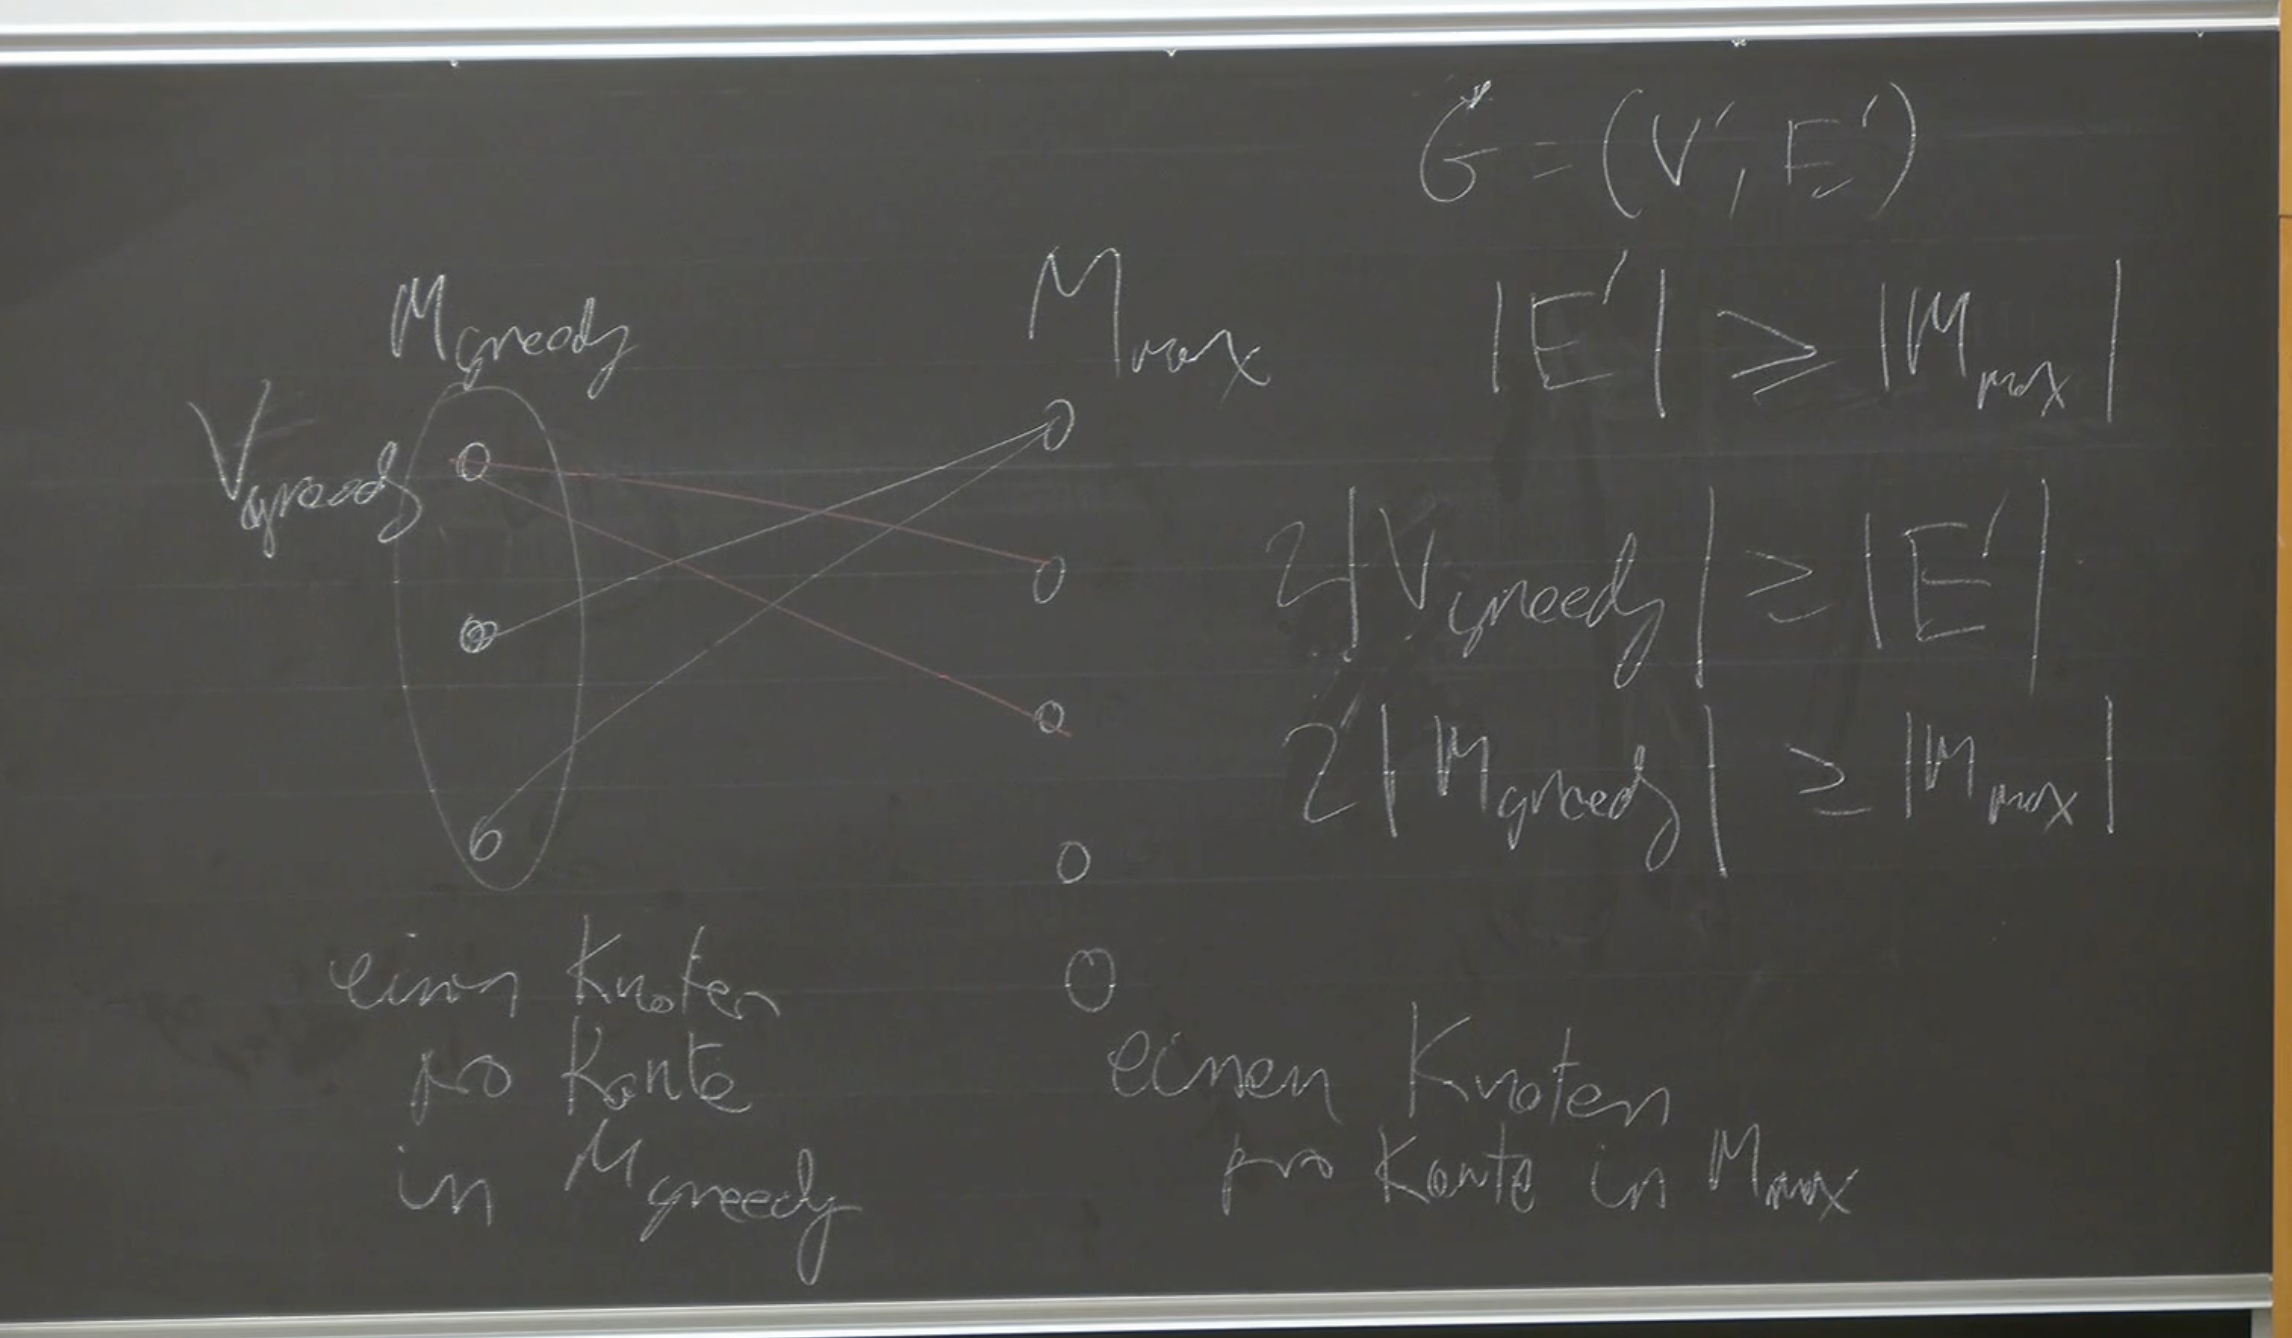
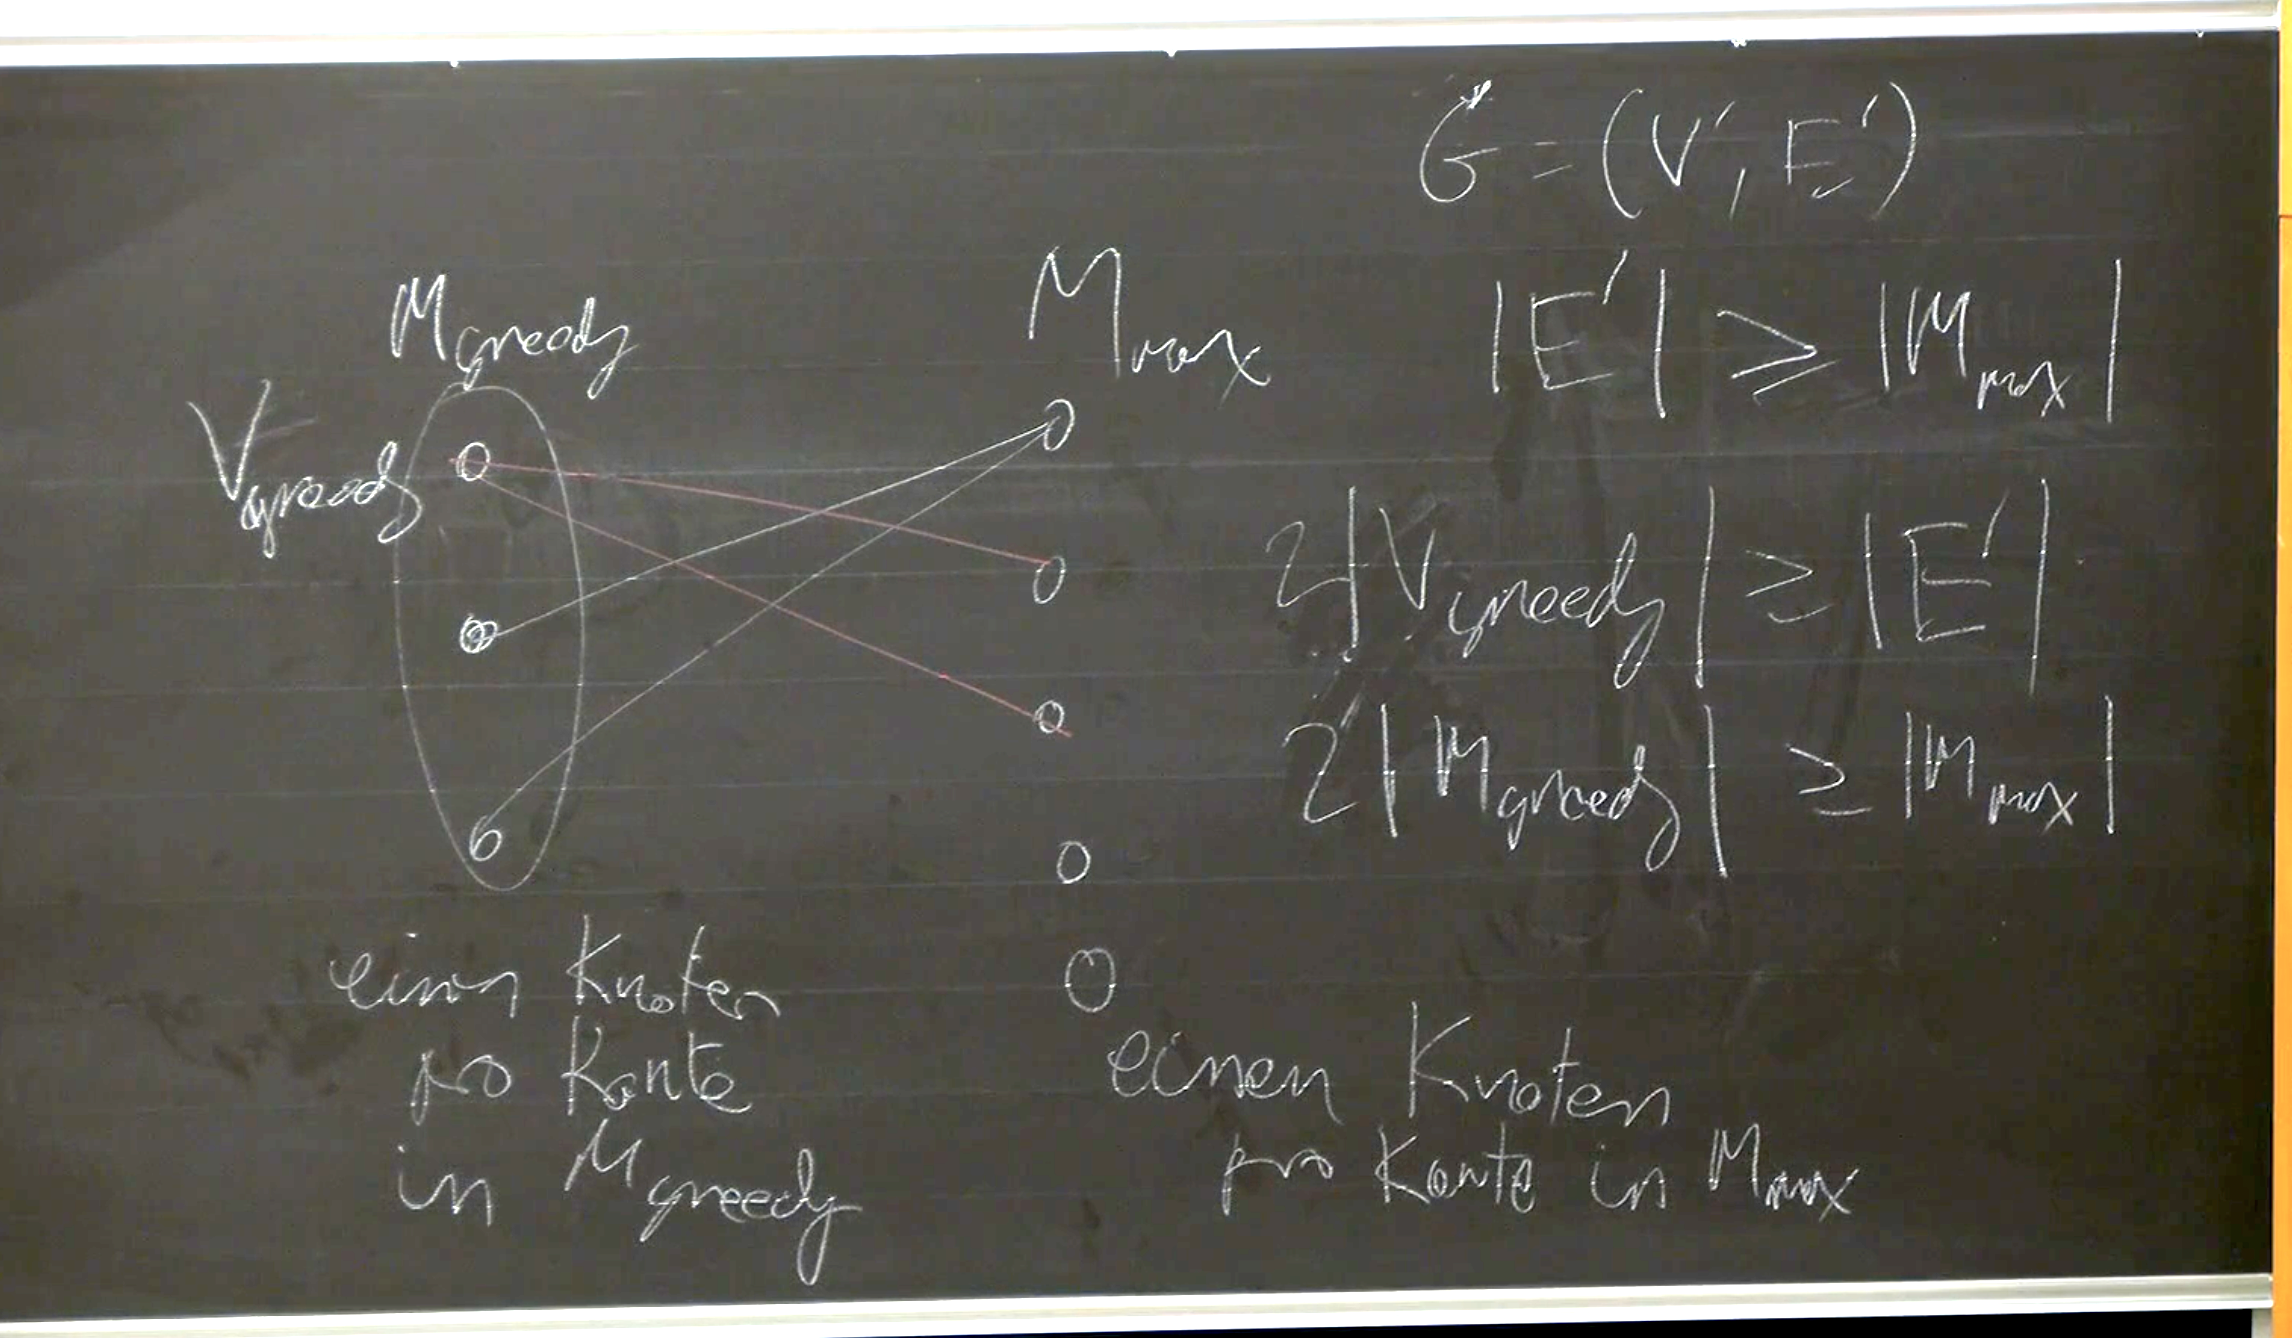
Quartz sync: Aug 3, 2026, 8:43 AM

diff --git a/content/2nd Semester/AuW/Notes/01 Graphen/06 Colorings.md b/content/2nd Semester/AuW/Notes/01 Graphen/06 Colorings.md
@@ -54,7 +54,7 @@ $$\chi(G) \leq C(G) \leq \Delta(G) + 1.$$
 - Gibt Reihenfolge $V = \{v_1, \dots, v_n\}$ der Knoten, Greedy-Algorithmus braucht nur $\chi(\mathbf{G})$ viele Farben
 - Es gibt bipartite Graphen und eine Reihenfolge der Knoten, für die der GreedyAlgorithmus $|V|/2$ viele Farben benötigt. Kann auch passieren, dass bei bipartitem Graphen mehrere Farben benötigt. 
 
-- Gilt für die (gewählte) Reihenfolge $|N(v_i) \cap \{v_1, \dots, v_{i-1}\}| \le k \quad \forall 2 \le i \le n$,  benötigt  Greedy-Algorithmus max. $\mathbf{k+1}$ Farben.
+- Gilt für die (gewählte) Reihenfolge $|N(v_i) \cap \{v_1, \dots, v_{i-1}\}| \le k \quad \forall 2 \le i \le n$,  benötigt  Greedy-Algorithmus max. $k+1$ Farben.
   
   Wenn du Knoten $v_i$ färbst, er hat max. $k$ Nachbarn , die in der Rhf vor ihm, so können diese Nachbarn max. $k$  Farben blockieren. Nehmen nächste freie Farbe nehmen, worst case Farbe $k+1$
 
@@ -121,7 +121,7 @@ $\implies G$ kann in Zeit $O(|E|)$ mit $\Delta(G)$ Farben gefärbt werden
 
 Beweis nicht prüfungsrelevant. 
 
-![[Bildschirmfoto 2026-03-10 um 22.47.25.png]]
+→ [[Bildschirmfoto 2026-03-10 um 22.47.25.png|Slides]]
 
 
 ---
@@ -134,7 +134,7 @@ Einen ==3-färbbaren Graphen== kann man in Zeit $O(|V| + |E|)$ mit $O(\sqrt{|V|}
 2. Lösche v und Nachbarn (alle gefärbten Knoten). Restgraph hat Maximalgrad $\Delta \leq \sqrt{ |V| }$
 3. Färbe verbleibende Knoten mit [[#Greedy Algorithm]] mit $\Delta + 1$ neuen Farben
 
-There are at most $n/\sqrt{n} = \sqrt{n}$ many vertices of degree $\ge \sqrt{n}$. Thus in the first step, we used at most $3 \cdot \sqrt{n}$ colors (3 colors per neighborhood). In the second step, we used another $O(\sqrt{n})$ many colors. Since we used BFS and the greedy-algorithm, the algorithm operates in $O(|E|)$ runtime in total, which proves the theorem.
+There are at most $\frac{n}{\sqrt{n}} = \sqrt{n}$ many vertices of degree $\ge \sqrt{n}$. Thus in the first step, we used at most $3 \cdot \sqrt{n}$ colors (3 colors per neighborhood). In the second step, we used another $O(\sqrt{n})$ many colors. Since we used BFS and the greedy-algorithm, the algorithm operates in $O(|E|)$ runtime in total, which proves the theorem.
 
 ---
 

diff --git a/content/2nd Semester/AuW/Notes/01 Graphen/03 Kreise.md b/content/2nd Semester/AuW/Notes/01 Graphen/03 Kreise.md
@@ -8,7 +8,7 @@
 | **Pfad (path)**      | **Weg ohne wiederholte Knoten**                                                                                                    |
 | Hamiltonpfad         | jeder Knoten genau einmal                                                                                                          |
 | Zyklus (closed walk) | **Weg mit Start = Ende**, mindestens 2 Knoten (hin-zurück-hin), Endknoten inzident zu (verbunden mit) geraden Anzahl Kanten im Weg |
-| ==Eulertour==        | Closed Walk, jede Kante genau einmal                                                                                               |
+| ==Eulertour==        | Closed Walk (Anfang = Ende)k, jede Kante genau einmal                                                                              |
 | Kreis                | Anfang = Ende, aber kein Knoten wird 2 mal besucht, also mindestens 3 Knoten                                                       |
 | ==Hamiltonkreis==    | Kreis über alle Knoten                                                                                                             |
 
@@ -21,7 +21,7 @@
 
 > Geschlossener Weg (Zyklus), jede Kante genau einmal
 
-- Eulertour existiert $\Longleftrightarrow$ alle Knotengrade gerade, Graph connected
+- alle Knotengrade gerade, Graph connected $\implies$ Eulertour existiert (andere Richtung gilt nicht, siehe z.B. Dreieck und isolierter Knoten)
 - Weg ist Zyklus $\Longleftrightarrow$ der Endknoten vom Eulerweg ist inzident zu einer geraden Anzahl von Kanten
 
 **Eulertouren finden**
@@ -49,7 +49,7 @@ $O(|E|)$
 
 Für endliche Mengen, Grösse trotz Überschneidung berechnen
 
-Nür n=2: 
+Für n=2: 
 $|A_{1} \cup A_{2}| = |A_{1}| + |A_{2}| - |A_{1} \cap A_{2}|$
 
 

diff --git a/content/2nd Semester/AuW/Notes/01 Graphen/05 Matchings.md b/content/2nd Semester/AuW/Notes/01 Graphen/05 Matchings.md
@@ -171,9 +171,9 @@ Perfektes Matching finden
 ![](https://youtu.be/lM5eIpF0xjA?si=g65DFdBSOwNwnWAd&t=251)
 
 > [!warning]
->1.  If $M$ is a matching and $P$ is a shortest $M$\-augmenting-path and $P'$ an $M \oplus P$\-augmenting-path (i.e. we apply $P$ first, then $P'$), then $$|P'| \geq |P| + 2|P \cap P'|$$ So if we augment $M$ successively with shortest $M$\-augmenting-paths, then the length of augmenting-paths cannot become smaller.
->2.  with every iteration of the while-loop, the length of a shortest augmenting-path increases by at least 2.
->3.  Let $M$ be a matching, where the length of the shortest augmenting-paths is $k$. Let $M'$ be an arbitrary another matching. Then $$|M'| \leq |M| + \frac{|V|}{k+1}$$
+>1. If $M$ is a matching and $P$ is a shortest $M$\-augmenting-path and $P'$ an $M \oplus P$\-augmenting-path (i.e. we apply $P$ first, then $P'$), then $$|P'| \geq |P| + 2|P \cap P'|$$ So if we augment $M$ successively with shortest $M$\-augmenting-paths, then the length of augmenting-paths cannot become smaller.
+>2. with every iteration of the while-loop, the length of a shortest augmenting-path increases by at least 2.
+>3. Let $M$ be a matching, where the length of the shortest augmenting-paths is $k$. Let $M'$ be an arbitrary another matching. Then $$|M'| \leq |M| + \frac{|V|}{k+1}$$
 
 
 ---

diff --git a/content/2nd Semester/PProg/Notes/Part 2/Exam Code Collection.md b/content/2nd Semester/PProg/Notes/Part 2/Exam Code Collection.md
@@ -1370,3 +1370,11 @@ Waitall          Waitall
 
 ### MPI — common functions
 `MPI_INIT` (first call), `MPI_COMM_SIZE`, `MPI_COMM_RANK`, `MPI_SEND`, `MPI_RECV`, `MPI_FINALIZE` (last call).
+
+
+- **`Bcast` (Broadcast):** Sends a copy of the same data from one root process to all other processes in the communicator.
+- **`Scatter`:** Divides a data array on a root process and sends a distinct, equal-sized chunk to each process.
+- **`Gather`:** Collects distinct chunks of data from all processes and concatenates them into a single array on a root process.
+- **`Reduce`:** Combines values provided by all processes using a specified mathematical operation (like sum, max, min) and stores the final result on a single root process.
+- **`Allreduce`:** Identical to `Reduce`, but distributes the final computed result back to all processes so everyone has the answer.
+- **`Barrier`:** A synchronization mechanism that forces all processes to pause; no process can execute past the barrier until every process has reached it.

diff --git a/content/2nd Semester/AuW/Notes/03 Algorithmen/17 Target Shooting.md b/content/2nd Semester/AuW/Notes/03 Algorithmen/17 Target Shooting.md
@@ -16,7 +16,16 @@ Y=\frac{1}{N} \cdot  \sum_{i=1}^N I_{s}(u_{i})
 $$
 Wie gross muss N sein damit Ausgabe aussagekräftig? 
 
-*   Sei $N \geq 3 \frac{|U|}{|S|} \cdot \varepsilon^{-2} \ln\left(\frac{2}{\delta}\right)$ für $\varepsilon, \delta > 0$. Dann ist die Ausgabe des Algorithmus mit Wahrscheinlichkeit $\geq 1-\delta$ im Intervall $\left[(1-\varepsilon)\frac{|S|}{|U|}, (1+\varepsilon)\frac{|S|}{|U|}\right]$ richtig
+Sei 
+
+$$
+N \geq 3 \frac{|U|}{|S|} \cdot \varepsilon^{-2} \ln\left(\frac{2}{\delta}\right)
+$$
+
+für $\varepsilon, \delta > 0$. Dann ist die Ausgabe des Algorithmus mit Wahrscheinlichkeit $\geq 1-\delta$ im Intervall 
+$$
+\left[(1-\varepsilon)\frac{|S|}{|U|}, (1+\varepsilon)\frac{|S|}{|U|}\right]
+$$ richtig
 
 ---
 

diff --git a/content/2nd Semester/AuW/Notes/01 Graphen/01 Connectivity.md b/content/2nd Semester/AuW/Notes/01 Graphen/01 Connectivity.md
@@ -97,8 +97,6 @@ Wenn sich zwei Blöcke schneiden, dann schneiden sie sich an einem Artikulations
 - Two blocks can only overlap in a cut-vertex.
 - Block-Partitionings can be determined in $O(|E|)$
 - If G (original graph) was **connected**:
-	- I (the block partitioning graph) is connected
-	- I has no cycles
 	- I is a **tree**
 
 ![[Bildschirmfoto 2026-02-17 um 15.56.55.png]]

diff --git a/content/2nd Semester/AuW/Notes/03 Algorithmen/25 Min-Cut Problem.md b/content/2nd Semester/AuW/Notes/03 Algorithmen/25 Min-Cut Problem.md
@@ -6,7 +6,7 @@
 - Schnitt: Teilmenge der Kanten, Graph nicht mehr zusammenhängend, wenn ich diese Kanten entferne
 
 $\mu(G)$ = minimaler Kantenschnitt:
-  **wie viele Kanten muss ich entfernen, damit nicht zusammenhängend**
+**wie viele Kanten muss ich entfernen, damit nicht zusammenhängend**
 
 Immer (logisch):
 $$

diff --git a/content/2nd Semester/AuW/index.md b/content/2nd Semester/AuW/index.md
@@ -23,6 +23,7 @@ my lecture notes:
 		- [[15 Ungleichungen, Abschätzungen]]
 		- [[16 DP]]
 	- **03 Algorithmen**
+		- [[2_Suchen und Sortieren.pdf]]
 		- [[12 Stabile Menge]]
 		- [[17 Target Shooting]]
 		- [[18 Randomisierte Algorithmen]]

diff --git a/content/2nd Semester/DDCA/Notes/03 Performance/19 Superscalar Execution.md b/content/2nd Semester/DDCA/Notes/03 Performance/19 Superscalar Execution.md
@@ -6,6 +6,7 @@ Processor: `[in order, out of order] x [scalar, superscalar]`
 > [!info]
 > **Advantages**
 > - higher throughput (higher IPC, Instructions per Cycle)
+> 
 > **Disadvantages**
 > - complexity
 > - hardware needed

diff --git a/content/2nd Semester/AuW/Notes/03 Algorithmen/28 Konvexe Hülle.md b/content/2nd Semester/AuW/Notes/03 Algorithmen/28 Konvexe Hülle.md
@@ -49,6 +49,7 @@ $O(n\cdot h)$
 Es gilt: 
 - $h \leq n$
 - wenn punkte gleichverteilt: $\mathbb{E}[h] \le O(\log n)$  
+- if number of corner vertices is constant, JarvisWrap runs in $O(n)$ time
 
 ## Local Repair
 

diff --git a/content/Todo.md b/content/Todo.md
@@ -2,8 +2,7 @@
 cssclasses:
 draft: "true"
 ---
-AuW Flow coding
-Analysis Teil 3
-PProg Wait/Notify und Fork/Join
-PProg Mock
-DDCA Mock
+DDCA Exam 3h 
+
+AuW Study 2h
+AuW Mock Exam 3h

diff --git a/content/2nd Semester/PProg/index.md b/content/2nd Semester/PProg/index.md
@@ -34,6 +34,5 @@ my lecture notes:
 		- [[14 Consensus]]
 		- [[15 Transactional Memory]]
 		- [[Exam Code Collection]]
-		- [[test]]
 
 %% End Waypoint %%
